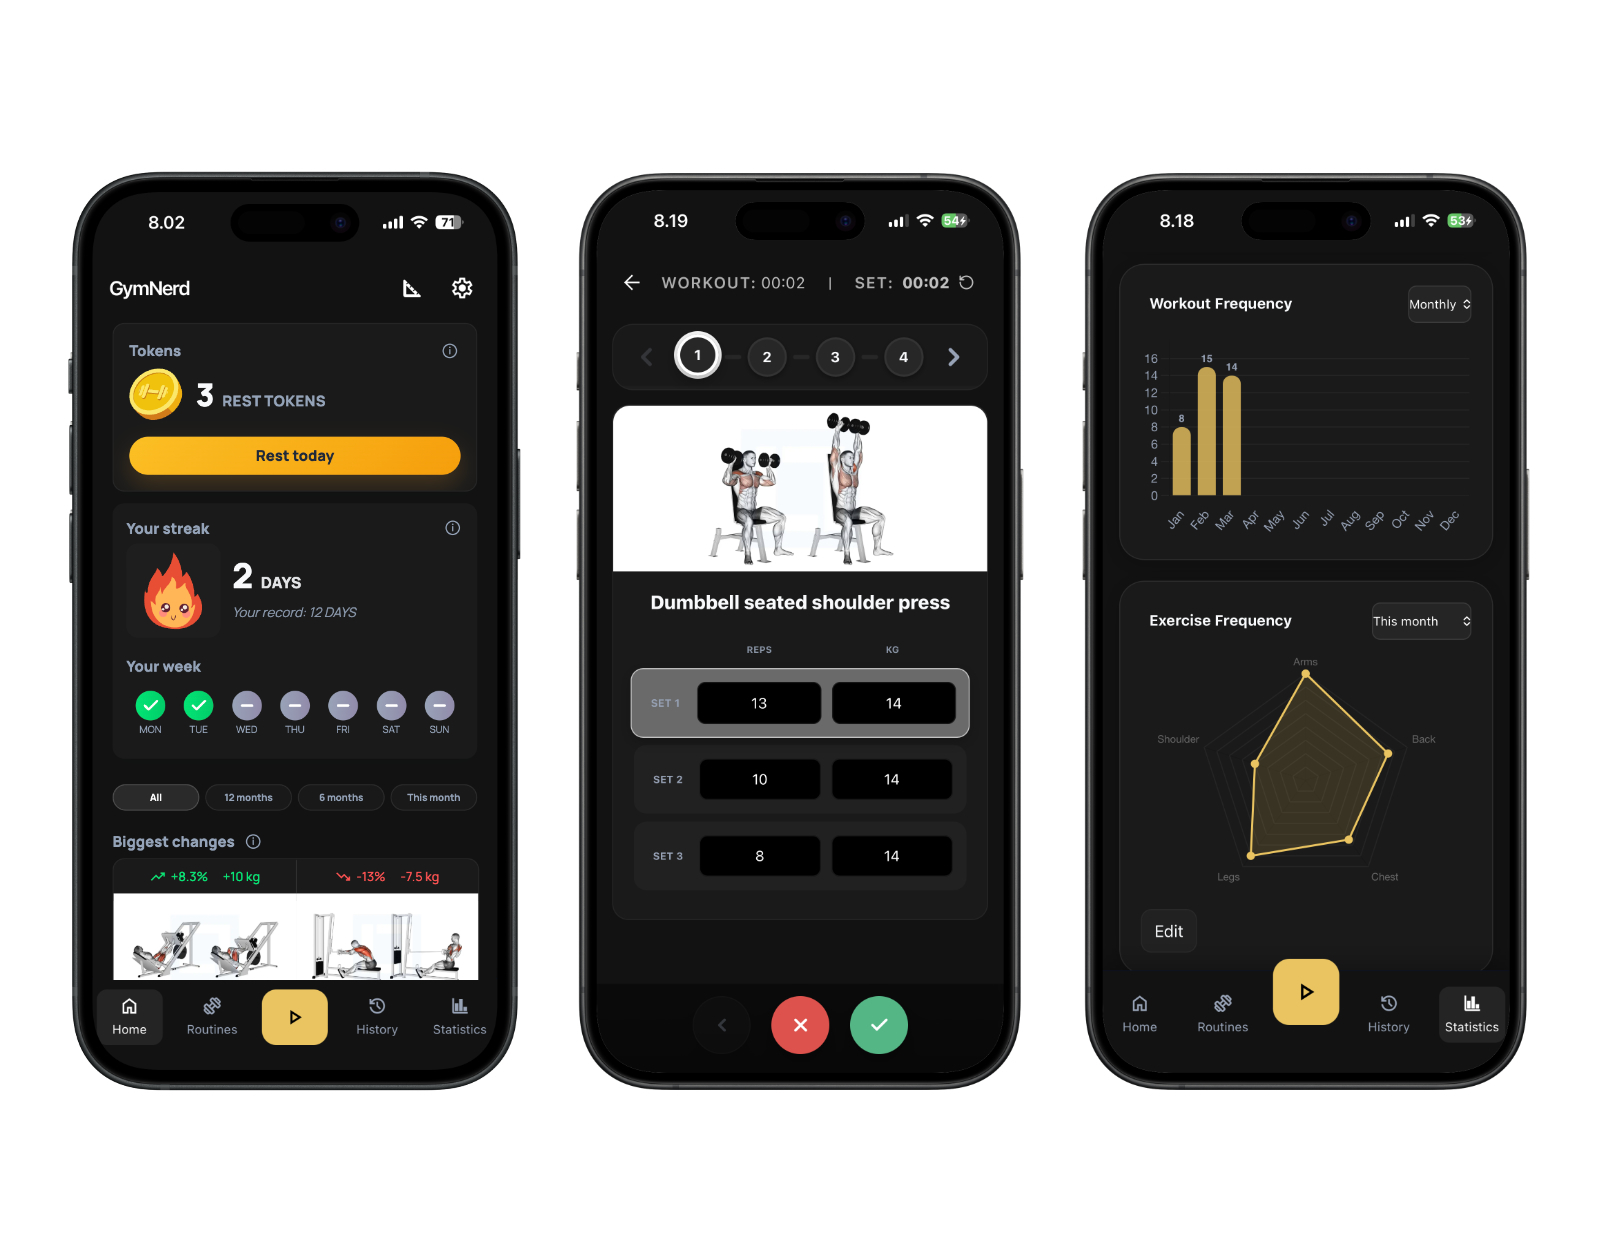
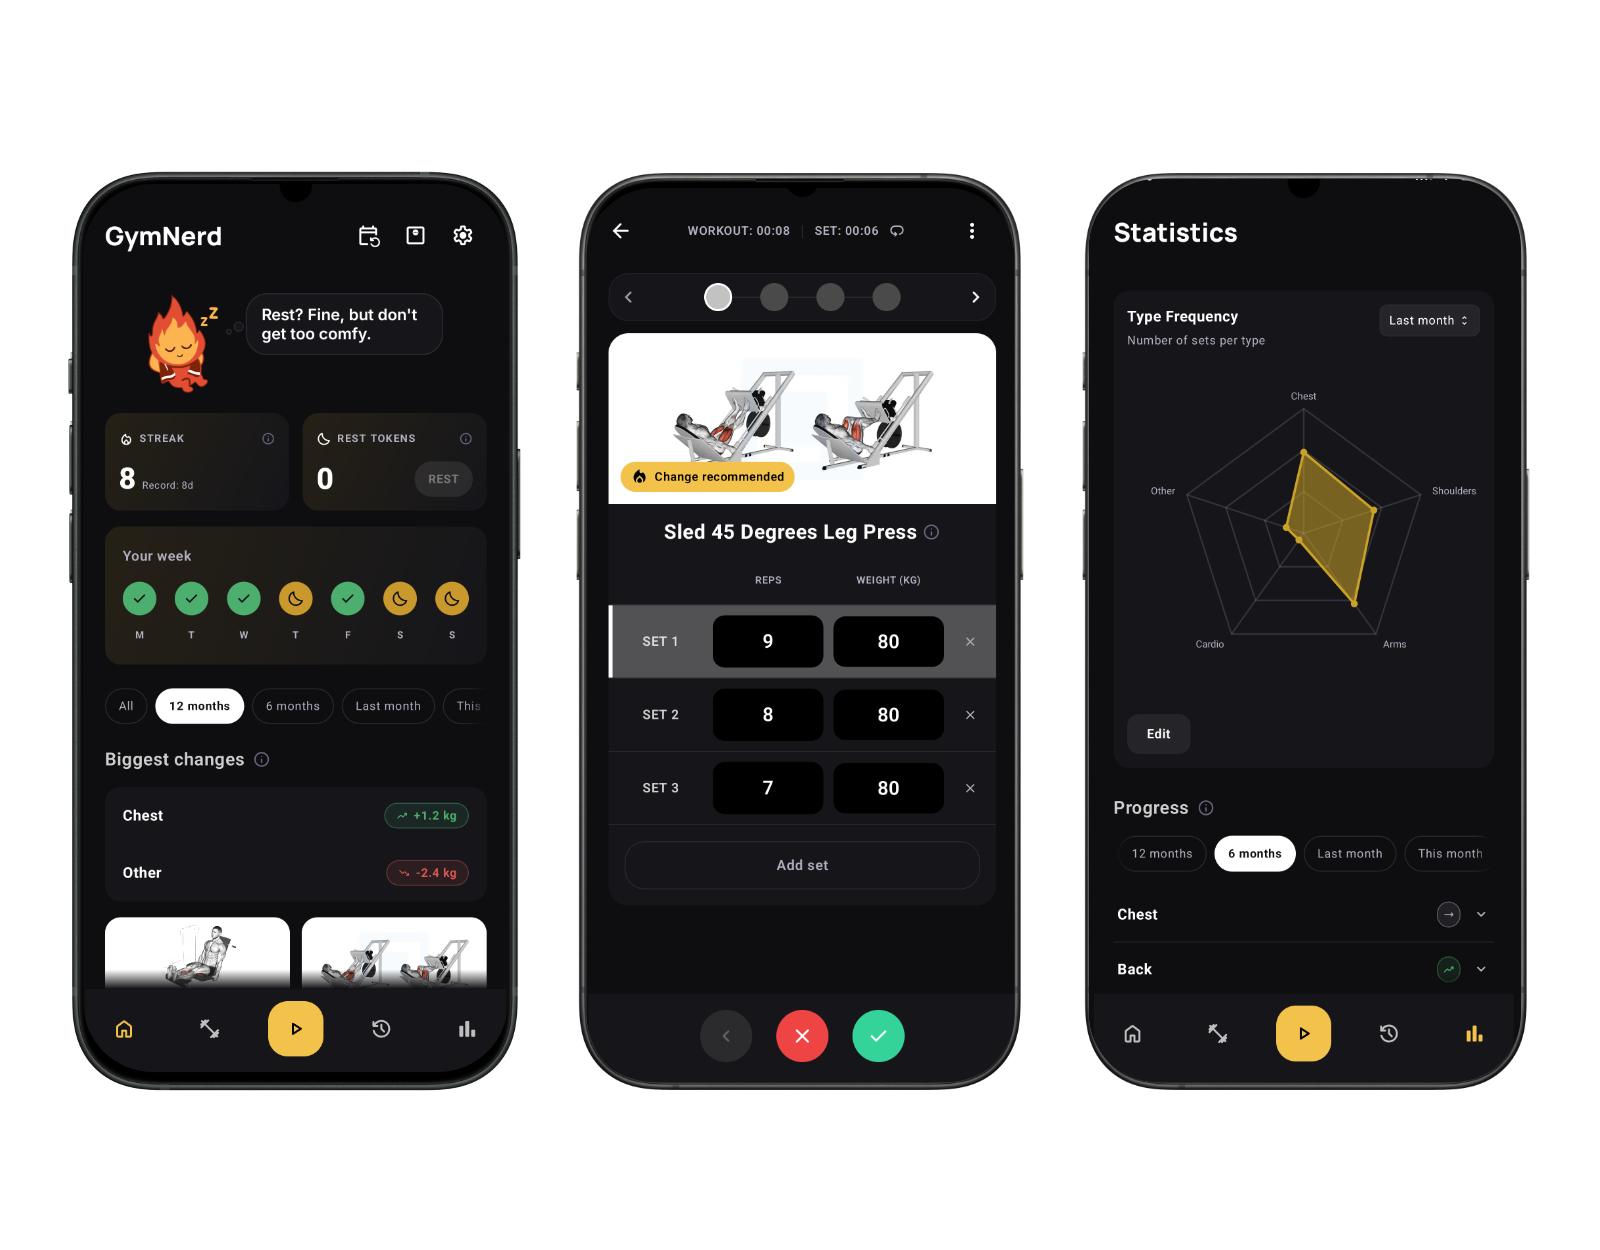
Update GymNerd section.

diff --git a/index.html b/index.html
@@ -223,7 +223,7 @@
 
 			<section id="gymnerd" class="spotlight">
 				<div class="image">
-					<a href="https://luanbarbosa.github.io/GymNerd/" target="_blank">
+					<a href="https://play.google.com/store/apps/details?id=com.gymnerd.app" target="_blank">
 						<img id="myImg" src="images/gymnerd_thumbnail.jpg" alt="" style="background-color: white;" />
 					</a>
 				</div>
@@ -235,6 +235,7 @@
 					<p data-i18n="gym_nerd_desc1"></p>
 					<p data-i18n="gym_nerd_desc2" class="subtext"></p>
 					<p class="subtext">2025 - 2026</p>
+					<a href="gymnerd/index.html" class="button small" data-i18n="more_details">More details</a>
 				</div>
 			</section>
 
